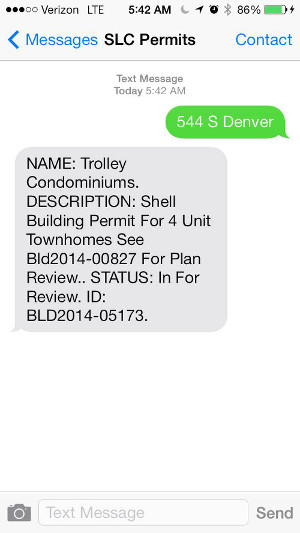
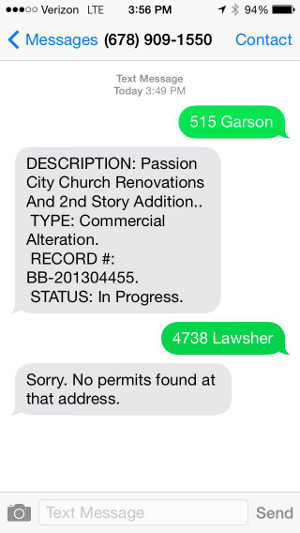
Modified for Atlanta

diff --git a/README.md b/README.md
@@ -1,4 +1,4 @@
-# SMS Permit Check
+# SMS Permit Check (Atlanta version)
 
 A Node.js application that allows a user to check for a permit at a specific address using text messaging.
 
@@ -13,4 +13,4 @@ The data source for permit information is [CivicData.com](http://www.civicdata.c
 
 ## Sample
 
-![Example ](https://raw.githubusercontent.com/mheadd/sms-permit-check/master/sample.jpeg "Permit from Salt Lake City")
+![Example](https://raw.githubusercontent.com/mheadd/sms-permit-check/master/sample.jpeg "Permit from Atlanta")
